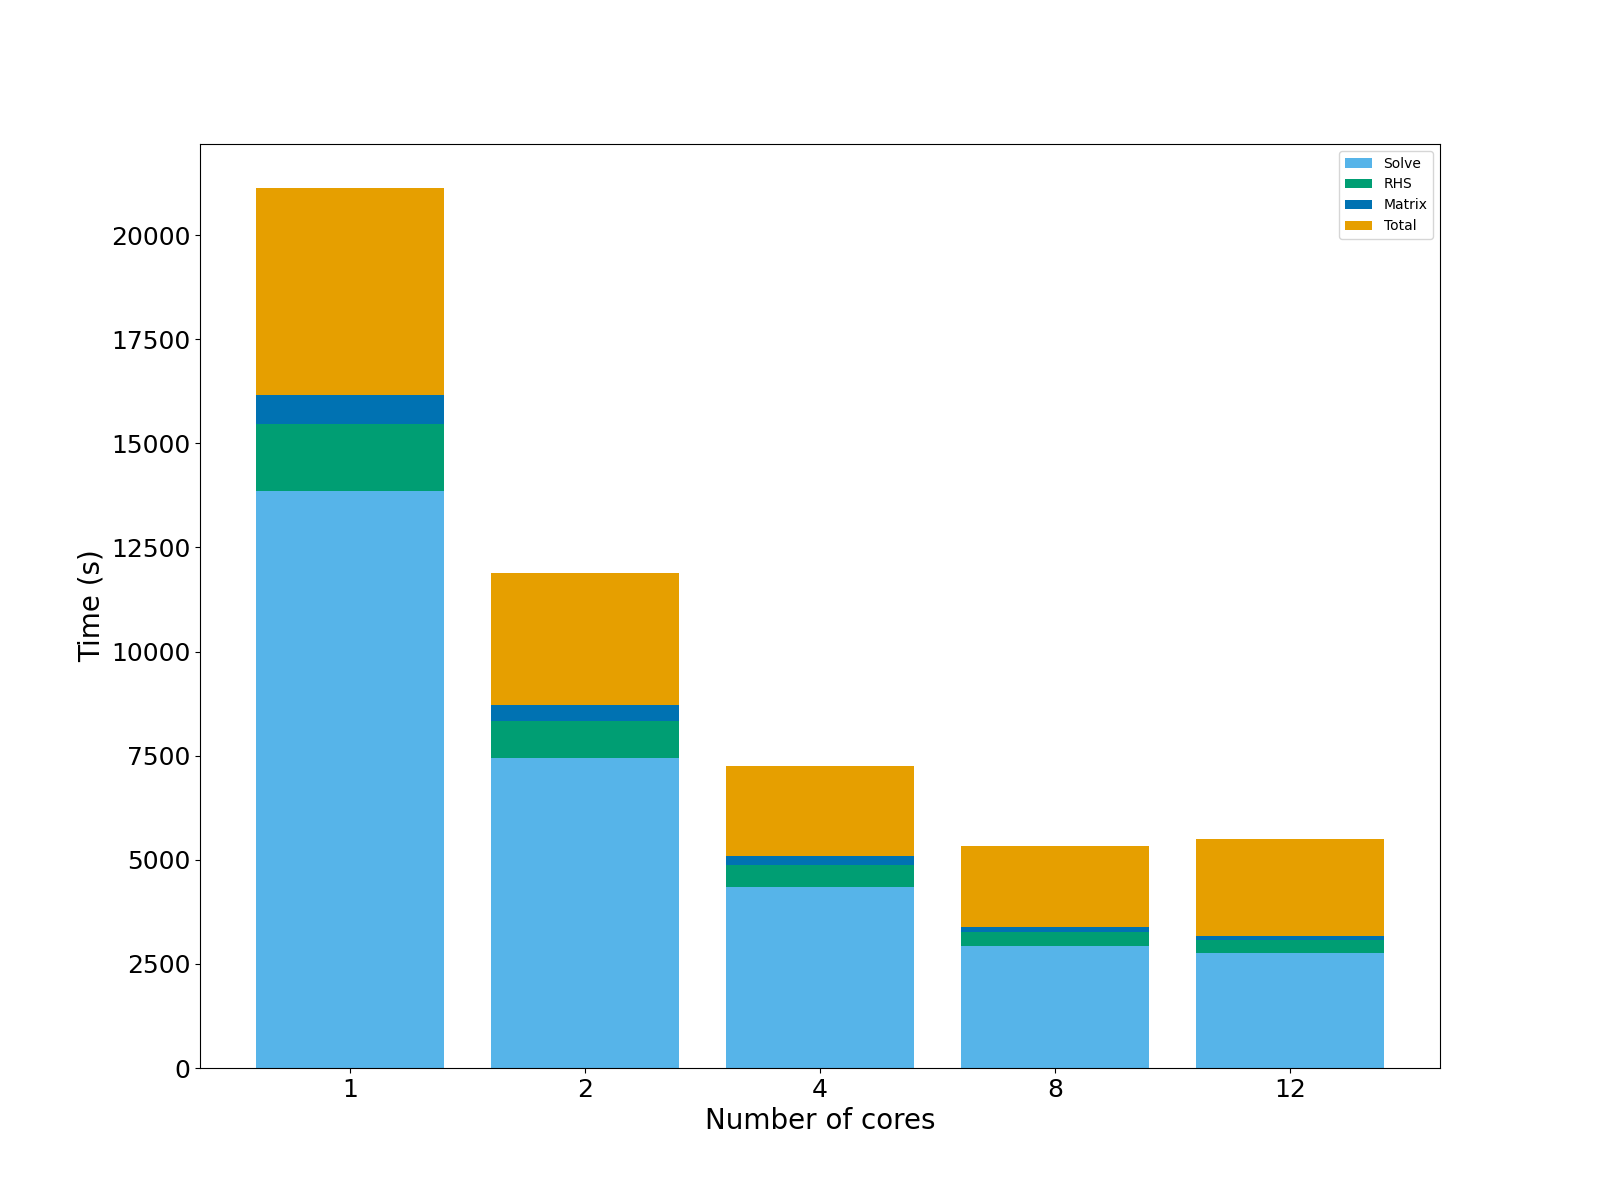
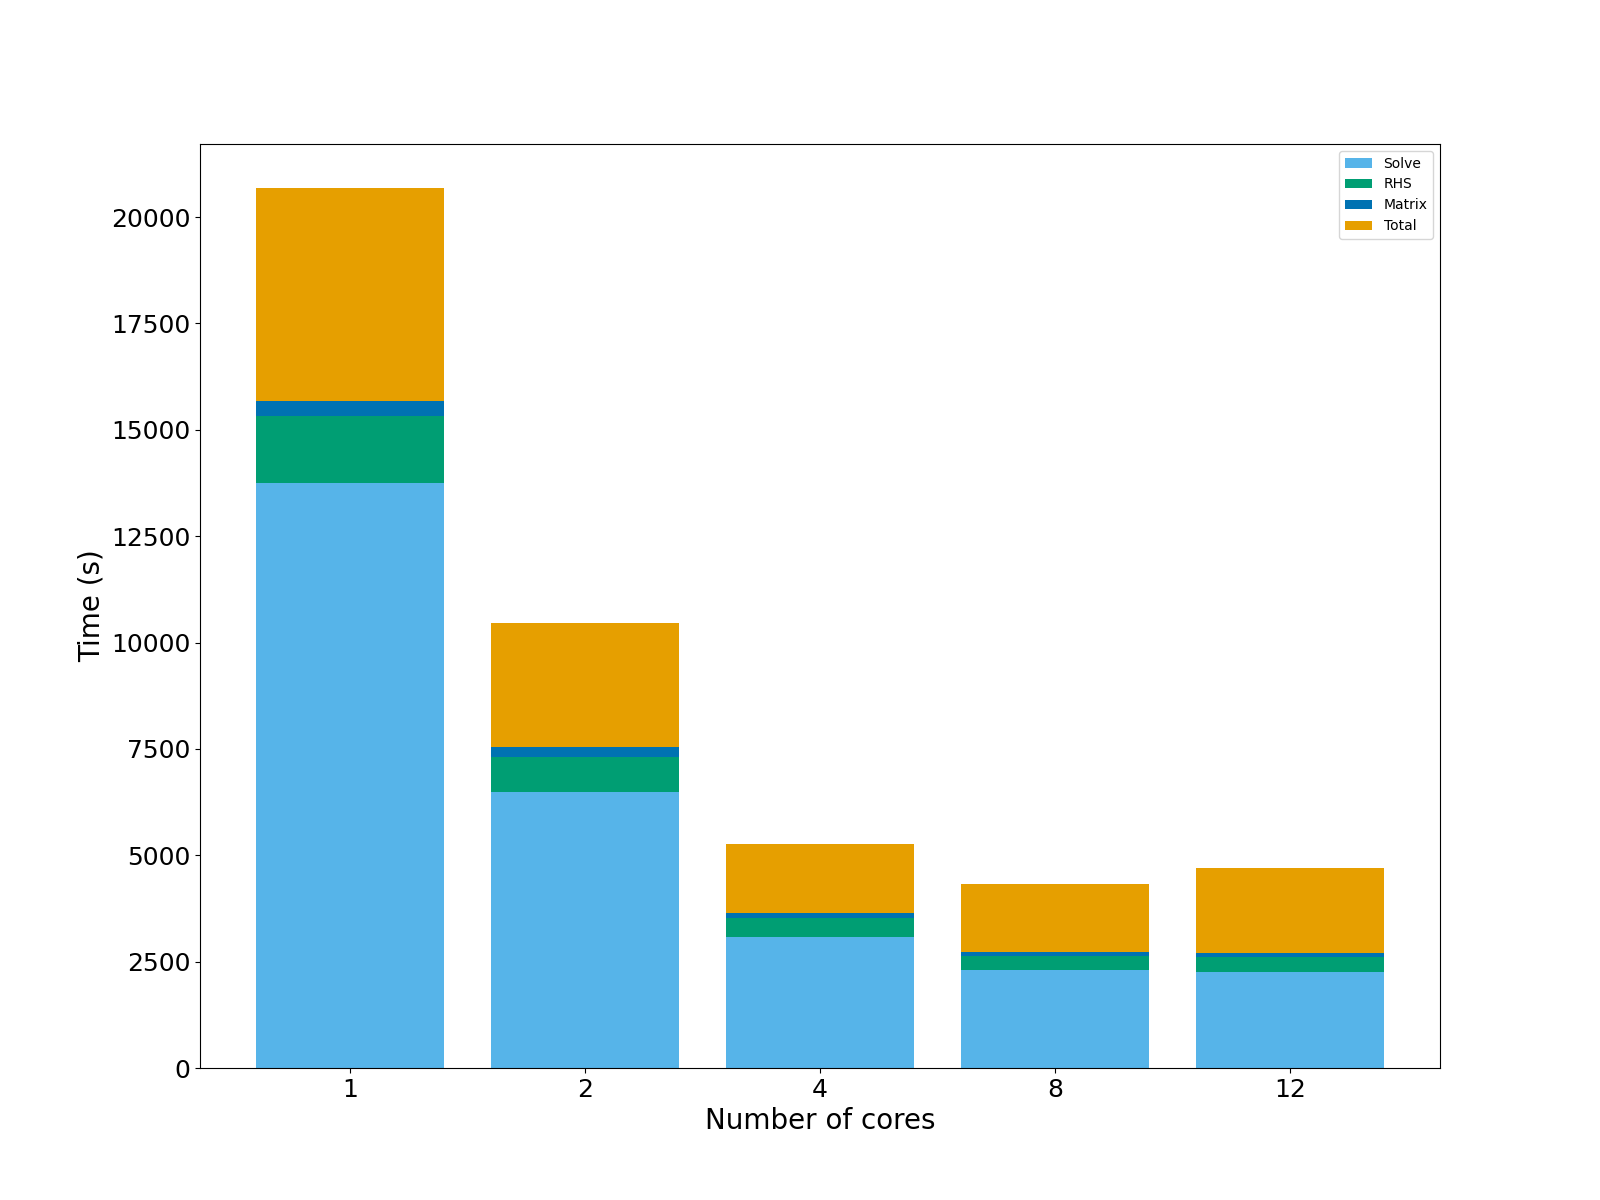
Add mecha figures

diff --git a/performance/dwell_rook/mecha_analysis.py b/performance/dwell_rook/mecha_analysis.py
@@ -14,11 +14,11 @@ color_ideal = colors[4]
 n_procs = [1, 2, 4, 8, 12]
 
 
-total_time = [21129.72, 11884.47, 7257.78, 5323.14, 5488.35]
-solve_time = [13845.677, 7447.26, 4353.48, 2921.77, 2764.48]
-rhs_time = [1610.34, 877.18, 517.04, 342.94, 303.15]
-matrix_time = [715.16, 385.79, 213.77, 132.76, 113.51]
-average_throughput = [87.37, 155.34, 254.37, 346.82, 336.38]
+total_time = [20681.9, 10468.9, 5262.7, 4326.9, 4689.3]
+solve_time = [13742, 6483.8, 3084.8, 2309.3, 2264.9]
+rhs_time = [1573.6, 819.8, 435.5, 323.4, 350.5]
+matrix_time = [352.3, 240.8, 120.2, 87.4, 79.8]
+average_throughput = [57.9, 114.3, 227.5, 276.7, 255.3]
 
 def compute_ideal_time(time):
     return [time[0]/n_procs[0], time[0]/n_procs[1], time[0]/n_procs[2],
@@ -99,6 +99,11 @@ speedup_matrix_plt, = plt.plot(n_procs, speedup_matrix, '-', color =
         label='Matrix')
 ideal_speedup_plt, = plt.plot(n_procs, n_procs , '-', color = color_ideal, linewidth = 3, markersize = 12,
         label='Ideal Scaling')
+
+plt.xlim(1, 12)
+plt.ylim(1, 8)
+plt.xticks(np.arange(1, 13, 1))
+plt.yticks(np.arange(1, 9, 1))
 ax.legend(handles=[speedup_total_plt, speedup_solve_plt, speedup_rhs_plt,
     speedup_matrix_plt, ideal_speedup_plt], fontsize = 18)
 plt.xlabel('Number of cores', fontsize = 20)
